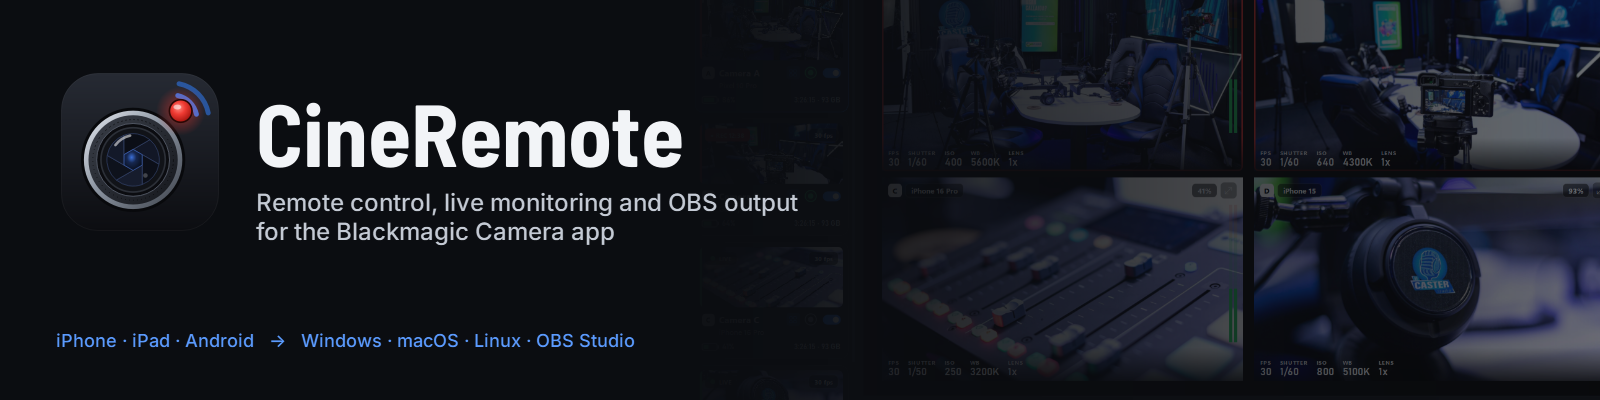
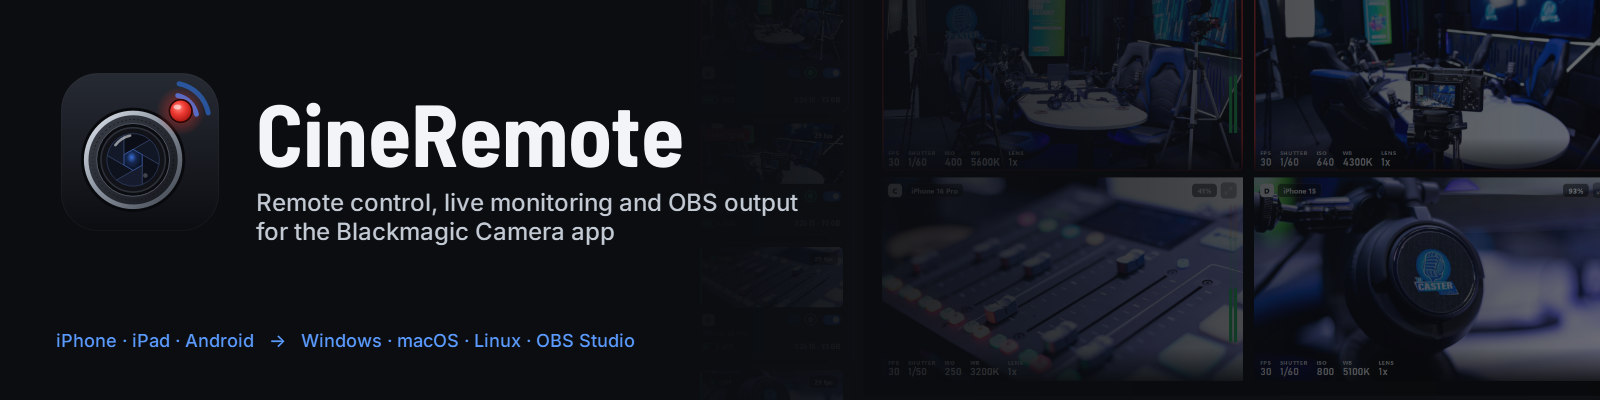
Camera cards: whole slate name in the badge, phone name left-aligned under it
The card no longer adds a "Camera X" title: the white slate badge widens to show the phone's full slate
name ("FU", "Camera Two"), with the phone's name under it at the left edge. A phone without a slate
name shows its own name on top. README screenshots re-shot.

diff --git a/cineremote/ui/studio.py b/cineremote/ui/studio.py
@@ -1,6 +1,6 @@
 """Studio view (concept C): camera cards, monitor with PC-side tools, vertical audio meter, control deck."""
 from PySide6.QtCore import QRectF, QSettings, QSize, Qt, QTimer, Signal
-from PySide6.QtGui import QColor, QFont, QPainter, QPainterPath, QPen
+from PySide6.QtGui import QColor, QFont, QFontMetrics, QPainter, QPainterPath, QPen
 from PySide6.QtWidgets import (QGridLayout, QHBoxLayout, QLabel, QPushButton, QScrollArea, QSizePolicy, QStackedWidget,
                                QVBoxLayout, QWidget)
 
@@ -177,19 +177,22 @@ class CameraCard(QWidget):
             p.fillRect(QRectF(r.left(), r.top(), 4, r.height()), tally)
             p.restore()
         y = self._name_y()
-        letter = M.slate_letter(h)
-        T.slate_badge(p, 12, y, letter, 20)
-        # camera (slate) name, and the phone under it
-        title, phone = (f"Camera {letter}", M.short_name(h)) if letter != "•" else (M.short_name(h), "")
-        p.setPen(T.TEXT)
-        p.setFont(T.ui_font(13.5, QFont.DemiBold))
+        # the whole slate name in the badge, the phone under it (no slate: the phone's name on top)
+        slate, phone = M.slate_name(h), M.short_name(h)
         name_right = self.mv.x() - 6 if self.mv.isVisible() else r.width() - 12
-        nw = int(max(20, name_right - 39))
-        p.drawText(QRectF(39, y, nw, 20), Qt.AlignVCenter, p.fontMetrics().elidedText(title, Qt.ElideRight, nw))
+        nw = int(max(20, name_right - 12))
+        if slate:
+            bf = T.ui_font(11, QFont.ExtraBold)
+            T.slate_badge(p, 12, y, QFontMetrics(bf).elidedText(slate, Qt.ElideRight, nw - 12), 20, fit=True)
+        else:
+            p.setPen(T.TEXT)
+            p.setFont(T.ui_font(13.5, QFont.DemiBold))
+            p.drawText(QRectF(12, y, nw, 20), Qt.AlignVCenter, p.fontMetrics().elidedText(phone, Qt.ElideRight, nw))
+            phone = ""
         p.setPen(T.TEXT2)
         p.setFont(T.ui_font(11.5))
-        pw = int(r.width() - 51)
-        p.drawText(QRectF(39, y + 20, pw, 18), Qt.AlignVCenter, p.fontMetrics().elidedText(phone, Qt.ElideRight, pw))
+        pw = int(r.width() - 24)
+        p.drawText(QRectF(12, y + 22, pw, 18), Qt.AlignVCenter, p.fontMetrics().elidedText(phone, Qt.ElideRight, pw))
         y += 46
         if not th_h:
             wchip = T.chip(p, 12, y, status, font=cf, h=21, fill=T.REC if rec else QColor(255, 255, 255, 10),

diff --git a/cineremote/ui/theme.py b/cineremote/ui/theme.py
@@ -135,11 +135,15 @@ def badge_a(p: QPainter, x, y, size=15):
     p.drawText(QRectF(x, y, size, size), Qt.AlignCenter, "A")
 
 
-def slate_badge(p: QPainter, x, y, letter, size=20):
-    rounded(p, QRectF(x, y, size, size), size * 0.25, QColor("white"))
+def slate_badge(p: QPainter, x, y, letter, size=20, fit=False):
+    """White slate tag; fit=True widens it to the whole text (a long slate name). Returns its width."""
+    f = ui_font(int(size * 0.55), QFont.ExtraBold)
+    w = max(size, text_width(f, letter) + size * 0.6) if fit else size
+    rounded(p, QRectF(x, y, w, size), size * 0.25, QColor("white"))
     p.setPen(QColor("black"))
-    p.setFont(ui_font(int(size * 0.55), QFont.ExtraBold))
-    p.drawText(QRectF(x, y, size, size), Qt.AlignCenter, letter)
+    p.setFont(f)
+    p.drawText(QRectF(x, y, w, size), Qt.AlignCenter, letter)
+    return w
 
 
 def apply(app):

diff --git a/cineremote/ui/model.py b/cineremote/ui/model.py
@@ -389,6 +389,13 @@ def slate_letter(h):
     return "•"
 
 
+def slate_name(h):
+    """The phone's whole slate/camera name ("FU", "Camera 2"), or "" if it has none."""
+    if h and h.name.endswith(")") and " (" in h.name:
+        return h.name.rsplit(" (", 1)[1][:-1]
+    return ""
+
+
 def short_name(h):
     return h.name.rsplit(" (", 1)[0] if h else ""
 
